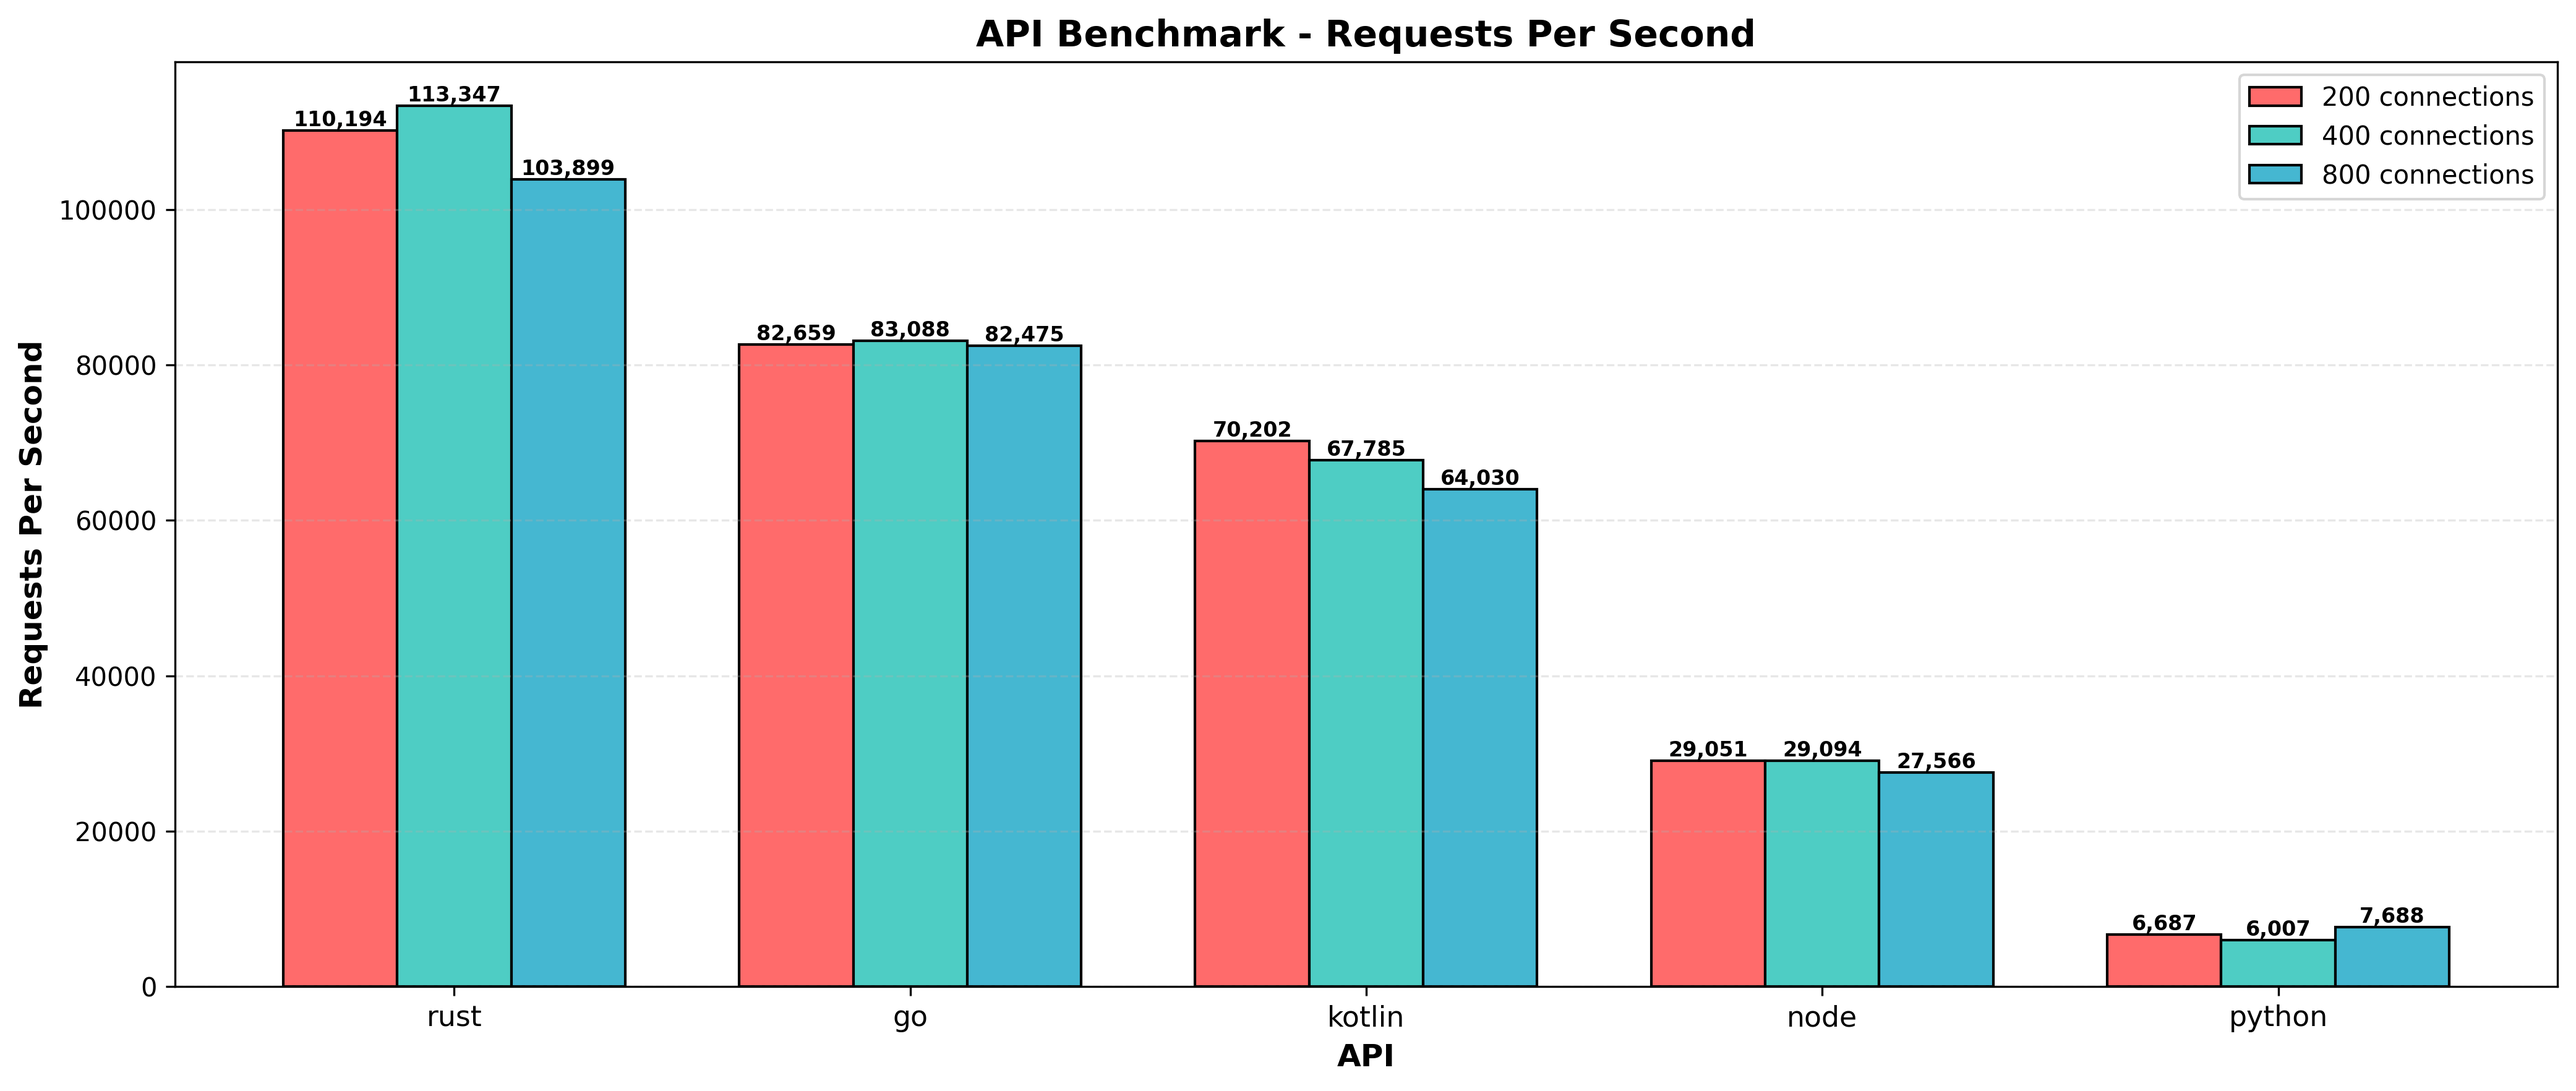
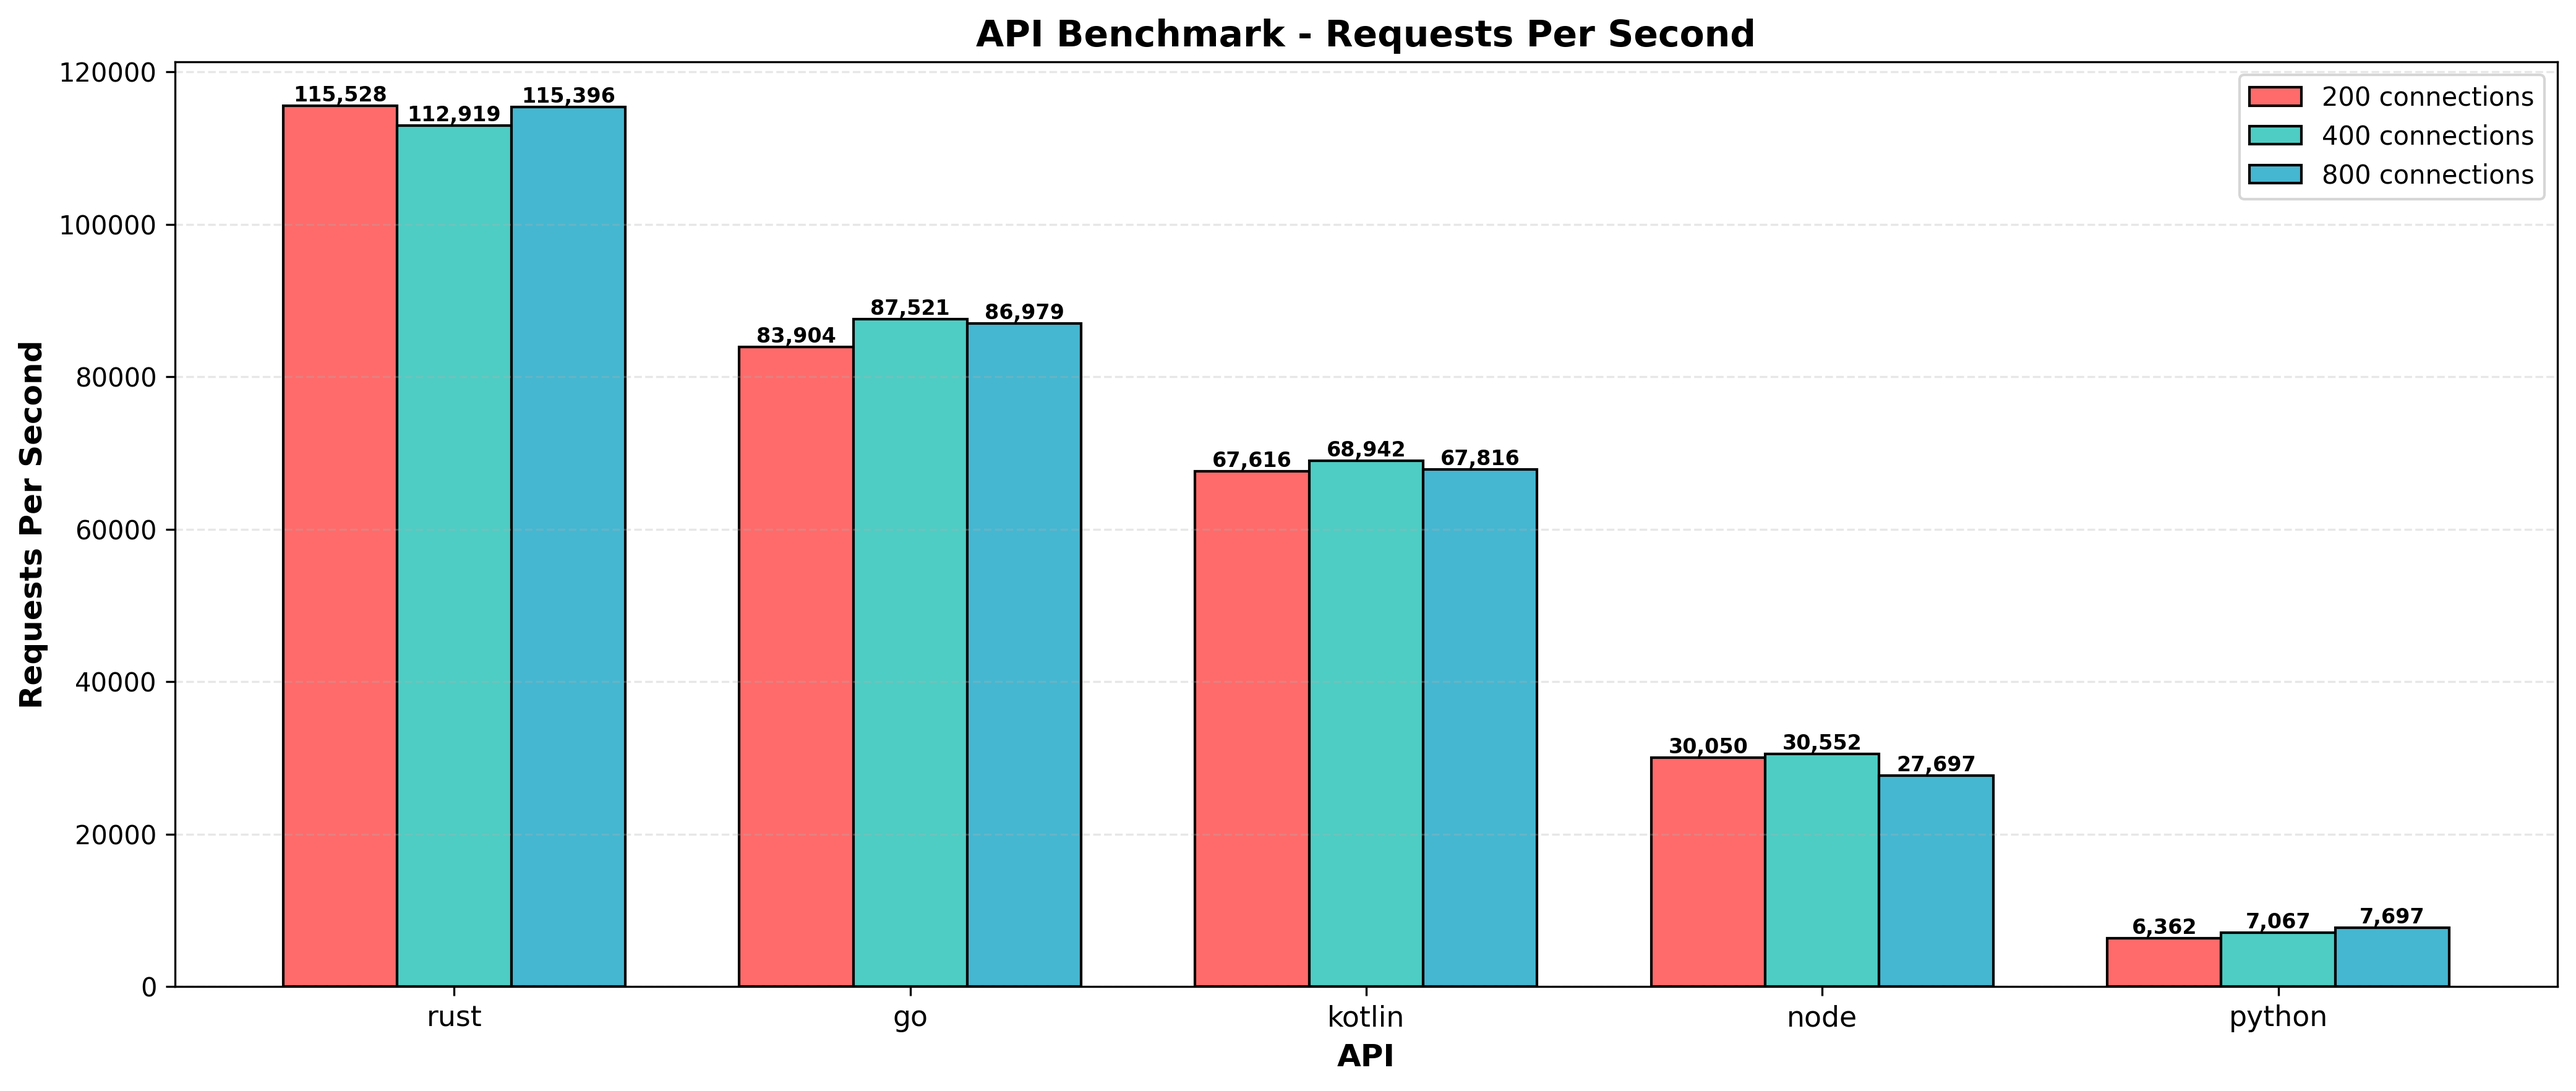
results from github actions autocommit

diff --git a/results/raw.md b/results/raw.md
@@ -1,6 +1,6 @@
 # Results
 ## Timestamp
-Wed Dec 31 15:08:52 UTC 2025
+Thu Jan 1 12:25:14 UTC 2026
 ## Hardware Info
 | CPU Model | Num CPUs | Memory |
 | --------- | -------- | ------ |
@@ -9,18 +9,18 @@ Wed Dec 31 15:08:52 UTC 2025
 ## Benchmarks of 1 Million Requests
 | Test Name | HTTP Conns | Success Rate | Test Seconds | Requests per Second | P50 Millis | P99 Millis | P99.9 Millis | API Memory MB | API CPU Time | API Threads |
 | --------- | ---------- | ------------ | ------------ | ------------------- | ---------- | ---------- | ------------ | ------------- | ------------ | ----------- |
-| rust | 200 | 100.0% | 9.0 | 110194.3 | 1.6702 | 4.6145 | 6.1425 | 8.4 | 00:00:17 | 5 |
-| rust | 400 | 100.0% | 8.8 | 113347.4 | 3.3720 | 7.2220 | 9.7447 | 13.0 | 00:00:17 | 5 |
-| rust | 800 | 100.0% | 9.6 | 103899.3 | 7.5341 | 12.7497 | 18.8336 | 22.2 | 00:00:18 | 5 |
-| go | 200 | 100.0% | 12.0 | 82658.7 | 1.8922 | 7.6478 | 10.4901 | 18.1 | 00:00:28 | 11 |
-| go | 400 | 100.0% | 12.0 | 83087.8 | 4.0890 | 14.6537 | 21.0850 | 24.2 | 00:00:28 | 11 |
-| go | 800 | 100.0% | 12.1 | 82474.6 | 8.6863 | 26.8021 | 41.6179 | 37.4 | 00:00:28 | 12 |
-| kotlin | 200 | 100.0% | 14.2 | 70201.5 | 1.9471 | 11.9651 | 31.9864 | 499.2 | 00:00:38 | 30 |
-| kotlin | 400 | 100.0% | 14.7 | 67784.9 | 4.9001 | 21.6701 | 48.4350 | 526.4 | 00:00:40 | 30 |
-| kotlin | 800 | 100.0% | 15.6 | 64030.0 | 10.1685 | 41.0769 | 124.7090 | 640.4 | 00:00:43 | 30 |
-| node | 200 | 100.0% | 34.4 | 29051.4 | 5.9355 | 10.4317 | 11.1940 | 106.7 | 00:00:34 | 7 |
-| node | 400 | 100.0% | 34.3 | 29093.5 | 11.9022 | 18.4753 | 25.3235 | 139.9 | 00:00:34 | 7 |
-| node | 800 | 100.0% | 36.3 | 27565.9 | 26.2884 | 41.9719 | 49.0098 | 149.6 | 00:00:36 | 7 |
-| python | 200 | 100.0% | 245.8 | 6686.9 | 48.7197 | 56.4025 | 60.8400 | 35.1 | 00:04:05 | 1 |
-| python | 400 | 100.0% | 241.9 | 6006.7 | 95.4809 | 109.2630 | 117.1591 | 37.7 | 00:04:01 | 1 |
-| python | 800 | 100.0% | 241.0 | 7688.2 | 191.5680 | 214.3365 | 221.3097 | 43.0 | 00:04:01 | 1 |
+| rust | 200 | 100.0% | 8.6 | 115527.6 | 1.6152 | 4.3940 | 5.9792 | 8.8 | 00:00:17 | 5 |
+| rust | 400 | 100.0% | 8.8 | 112919.3 | 3.2865 | 7.9681 | 10.6812 | 13.1 | 00:00:17 | 5 |
+| rust | 800 | 100.0% | 8.7 | 115395.5 | 6.8202 | 11.2211 | 16.1509 | 22.1 | 00:00:17 | 5 |
+| go | 200 | 100.0% | 11.9 | 83904.4 | 1.8592 | 7.4283 | 10.1940 | 17.7 | 00:00:28 | 11 |
+| go | 400 | 100.0% | 11.4 | 87520.8 | 3.8651 | 13.4755 | 19.4469 | 24.4 | 00:00:27 | 10 |
+| go | 800 | 100.0% | 11.5 | 86979.0 | 8.2667 | 23.7023 | 38.4208 | 37.8 | 00:00:27 | 10 |
+| kotlin | 200 | 100.0% | 14.7 | 67615.8 | 2.0852 | 12.0310 | 33.6196 | 519.2 | 00:00:40 | 30 |
+| kotlin | 400 | 100.0% | 14.5 | 68941.8 | 4.8807 | 20.4900 | 56.3563 | 531.9 | 00:00:40 | 30 |
+| kotlin | 800 | 100.0% | 14.7 | 67816.4 | 9.5223 | 45.9188 | 121.7477 | 731.2 | 00:00:40 | 30 |
+| node | 200 | 100.0% | 33.2 | 30049.5 | 5.8032 | 10.4403 | 12.1346 | 107.3 | 00:00:33 | 7 |
+| node | 400 | 100.0% | 32.7 | 30551.9 | 11.4203 | 17.8010 | 20.9480 | 139.3 | 00:00:33 | 7 |
+| node | 800 | 100.0% | 36.1 | 27696.8 | 24.4575 | 39.8436 | 47.3570 | 147.9 | 00:00:36 | 7 |
+| python | 200 | 100.0% | 240.6 | 6361.8 | 47.2427 | 54.3296 | 56.2678 | 34.7 | 00:04:00 | 1 |
+| python | 400 | 100.0% | 233.9 | 7067.3 | 92.5413 | 105.3266 | 111.3609 | 37.4 | 00:03:53 | 1 |
+| python | 800 | 100.0% | 232.7 | 7697.3 | 184.5953 | 204.6799 | 217.2632 | 43.0 | 00:03:52 | 1 |
